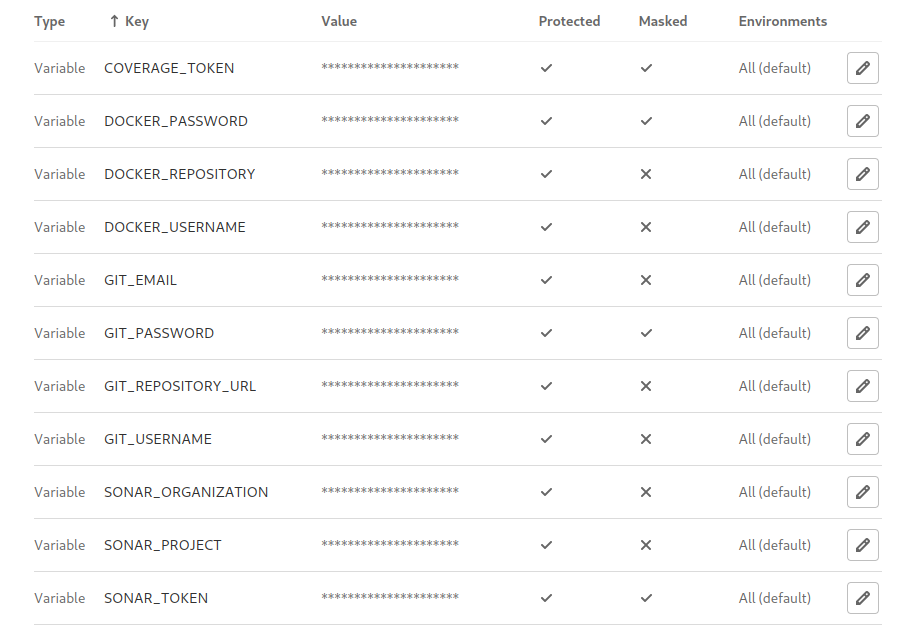
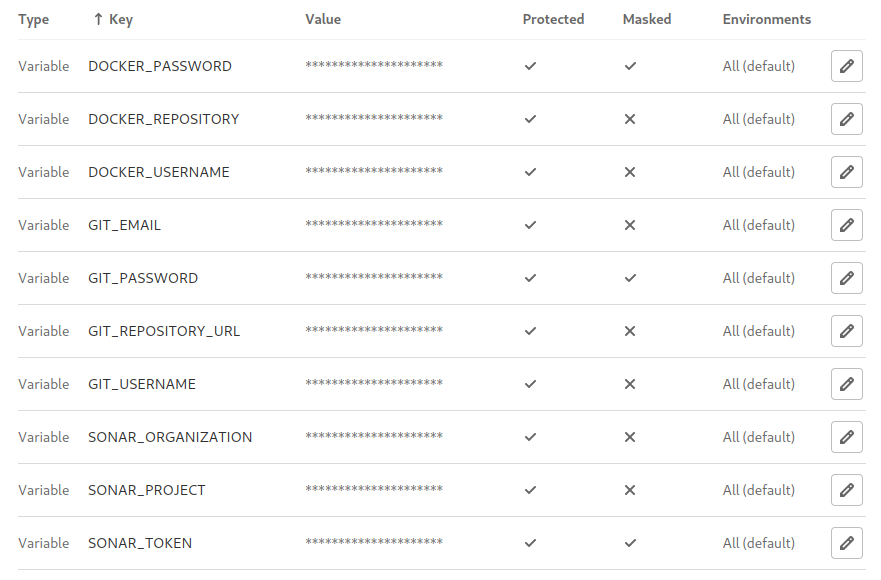
feature:    coverage - remove codecov coverage, update docs and pipeline

diff --git a/README.md b/README.md
@@ -1,17 +1,15 @@
 [![Build Status](https://gitlab.com/campisano/common_ci_scripts_for_dockerhub_release/badges/master/pipeline.svg "Build Status")](https://gitlab.com/campisano/common_ci_scripts_for_dockerhub_release)
-[![Test Coverage](https://codecov.io/gh/campisano/common_ci_scripts_for_dockerhub_release/branch/master/graph/badge.svg "Test Coverage")](https://codecov.io/gh/campisano/common_ci_scripts_for_dockerhub_release)
-[![Code Quality](https://img.shields.io/lgtm/grade/cpp/g/campisano/common_ci_scripts_for_dockerhub_release.svg "Code Quality")](https://lgtm.com/projects/g/campisano/common_ci_scripts_for_dockerhub_release/context:cpp)
 [![Sonar Coverage](https://sonarcloud.io/api/project_badges/measure?project=common_ci_scripts_for_dockerhub_release&metric=coverage "Sonar Coverage")](https://sonarcloud.io/dashboard?id=common_ci_scripts_for_dockerhub_release)
 [![Sonar Maintainability](https://sonarcloud.io/api/project_badges/measure?project=common_ci_scripts_for_dockerhub_release&metric=sqale_rating "Sonar Maintainability")](https://sonarcloud.io/dashboard?id=common_ci_scripts_for_dockerhub_release)
 [![Docker Image](https://img.shields.io/docker/image-size/riccardocampisano/public/common_ci_scripts_for_dockerhub_release-latest?label=common_ci_scripts_for_dockerhub_release-latest&logo=docker "Docker Image")](https://hub.docker.com/r/riccardocampisano/public/tags?name=common_ci_scripts_for_dockerhub_release)
 
 # Sample CI/CD project with dockerhub integration
 
-This project shows how to setup a pipeline using CI services like GitLab or travis-ci to:
-- build and test a (C++/Java/etc) project using a specific docker image;
-- produce and send coverage info to sonarcloud.io and codecov.io;
+This project shows how to setup a pipeline using CI services like GitLab or Travis CI to:
+- build and test a (C++/Java/etc) project using specific docker images;
+- produce and send coverage info to sonarcloud.io;
 - build a docker image, tag and push it to hub.docker.com;
-- create the image-related git tag and push it back to your repository.
+- create the git tag related with the build and push it back to your repository.
 
 
 
@@ -27,10 +25,9 @@ This project shows how to setup a pipeline using CI services like GitLab or trav
 
 
 ## CI requirements:
-    - docker repository (hub.docker.com) push access
-    - git remote (gitlab.com) push access
-    - sonarcloud.io bind
-    - codecov.io access
+- docker repository (hub.docker.com) push access
+- git remote (gitlab.com) push access
+- sonarcloud.io bind
 
 
 
@@ -47,7 +44,42 @@ This project shows how to setup a pipeline using CI services like GitLab or trav
     - SONAR_ORGANIZATION
     - SONAR_TOKEN
     - SONAR_PROJECT
-    - COVERAGE_TOKEN
+
+
+
+    Step by step howto:
+
+        1 - GitLab access
+          login with your account on gitlab.com and go to -> user-icon -> Edit profile -> Access Tokens
+            create a new Token (with read_repository and write_repository scopes) to allow CI pipeline to push tags into GitLab  (suggested name: "CI push")
+          go to gitlab.com  -> your project -> Settings -> CI/CD -> Variables Expand
+            add the follow env vars:
+            - GIT_REPOSITORY_URL (not masked) containing the GitLab repository to push tags (e.g. gitlab.com/campisano/common_ci_scripts_for_dockerhub_release)
+            - GIT_EMAIL          (not masked) containing a email for commit logs            (e.g. cipush@gitlab)
+            - GIT_USERNAME       (not masked) containing the fixed GitLab username          (exactly gitlab-ci-token, see https://docs.gitlab.com/ee/user/profile/personal_access_tokens.html)
+            - GIT_PASSWORD       (masked)     containing the GitLab Personal access token   (e.g. the previously created)
+
+        2 - Docker Hub access
+          login with your account on hub.docker.com and go to -> Account Settings -> Security
+            create a new Access Token to allow CI pipeline to push images into Docker Hub (suggested description: "CI push")
+          go to gitlab.com  -> your project -> Settings -> CI/CD -> Variables Expand
+            add the follow env vars:
+            - DOCKER_REPOSITORY (not masked) containing the Docker Hub repository to push images (e.g. riccardocampisano/public)
+            - DOCKER_USERNAME   (not masked) containing your Docker Hub username                 (e.g. riccardocampisano)
+            - DOCKER_PASSWORD   (masked)     containing the Docker Hub Access Token              (e.g. the previously created)
+
+        3 - SonarCloud access
+          login with your account on sonarcloud.io and go to -> user-icon -> My Account -> Security
+            create a new Token to allow CI pipeline to push code analisys into SonarCloud (suggested name: "CI push")
+          go to gitlab.com  -> your project -> Settings -> CI/CD -> Variables Expand
+            add the follow env vars:
+            - SONAR_ORGANIZATION (not masked) containing the SonarCloud organization key  (e.g. campisano)
+            - SONAR_PROJECT      (not masked) containing a SonarCloud key for the project (e.g. common_ci_scripts_for_dockerhub_release)
+            - SONAR_TOKEN        (masked)     containing the SonarCloud Token             (e.g. the previously created)
+
+
+
+
 
 2) edit the scripts in the `./ci/custom` folder
 
